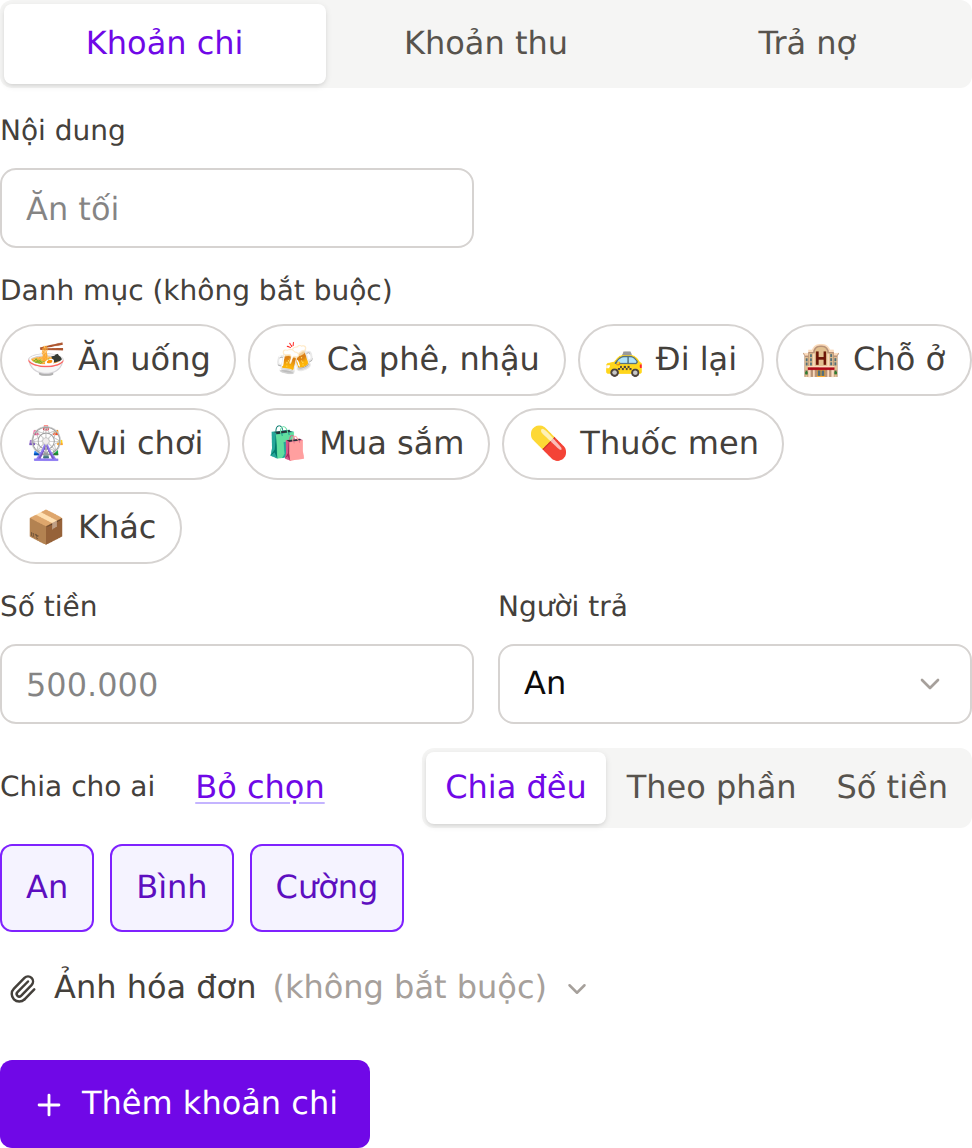
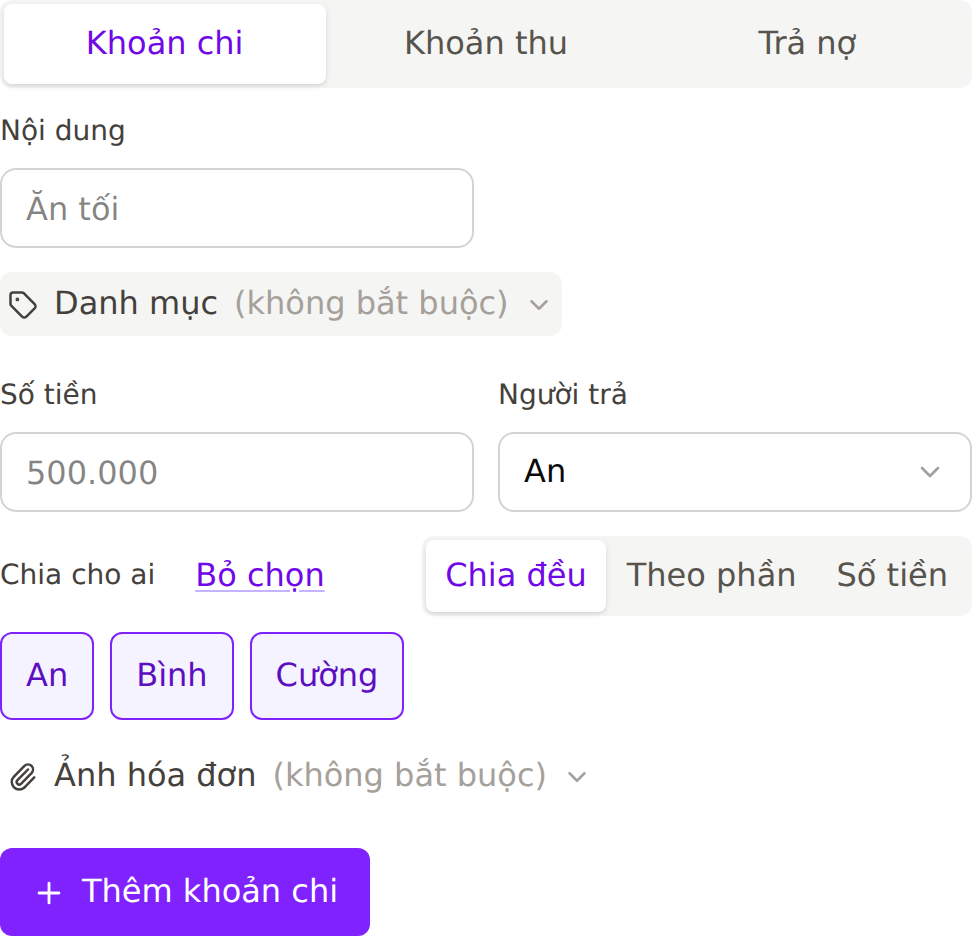
feat(ui): gap san muc chon danh muc trong form khoan chi
Danh muc la tuy chon nhung mo san day so tien va nguoi tra — hai o bat buoc —
xuong duoi man hinh. Dua ve dang gap/mo giong "Ảnh hóa đơn": header co icon
tag, chu "(không bắt buộc)" va badge danh muc dang chon, tu mo khi da chon
(hoac khi sua mot khoan co san danh muc) de con thay minh chon gi.

Claude-Session: https://claude.ai/code/session_01WXVSyJMV96qshRZcbARzF5

diff --git a/src/components/ExpensePanel.tsx b/src/components/ExpensePanel.tsx
@@ -10,6 +10,7 @@ import {
   Pencil,
   Plus,
   Sparkles,
+  Tag,
   Trash2,
   X,
 } from "lucide-react";
@@ -342,6 +343,7 @@ export function ExpensePanel({
   const toId = form.watch("toId");
   const splitMode = form.watch("splitMode");
   const category = form.watch("category");
+  const selectedCategoryMeta = categoryMeta(category);
   const splitValues = form.watch("splitValues");
   const amountValue = form.watch("amount");
 
@@ -438,6 +440,7 @@ function handleSplitModeChange(mode: SplitMode) {
   const aiReceipt = useAiScanReceipt(gameId);
   const [aiOpen, setAiOpen] = useState(false);
   const [photosOpen, setPhotosOpen] = useState(false);
+  const [categoryOpen, setCategoryOpen] = useState(false);
   const [aiText, setAiText] = useState("");
   const [aiError, setAiError] = useState("");
   const aiPending = aiSuggest.isPending || aiReceipt.isPending;
@@ -755,10 +758,35 @@ function handleSplitModeChange(mode: SplitMode) {
           />
         </Field>
         <div className={`md:col-span-2 ${kind !== "expense" ? "hidden" : ""}`}>
-          <p className="mb-1.5 text-sm font-medium text-stone-700 dark:text-stone-300">
-            Danh mục (không bắt buộc)
-          </p>
-          <div className="flex flex-wrap gap-1.5" role="group" aria-label="Danh mục chi tiêu">
+          {/* Gap san giong "Ảnh hóa đơn": danh muc la tuy chon, mo mac dinh thi
+              day cac o bat buoc (so tien, nguoi tra) xuong duoi man hinh. Da
+              chon roi thi luon mo de con thay minh chon gi. */}
+          <button
+            type="button"
+            onClick={() => setCategoryOpen((current) => !current)}
+            aria-expanded={categoryOpen || Boolean(category)}
+            className="mb-2 flex items-center gap-2 rounded-md px-1 py-1 text-sm font-medium text-stone-700 transition hover:bg-stone-100 dark:text-stone-300 dark:hover:bg-stone-800"
+          >
+            <Tag size={15} />
+            Danh mục
+            <span className="font-normal text-stone-400">(không bắt buộc)</span>
+            {selectedCategoryMeta && (
+              <span
+                className={`rounded px-1.5 py-0.5 text-[10px] font-semibold ${selectedCategoryMeta.badgeClassName}`}
+              >
+                {selectedCategoryMeta.emoji} {selectedCategoryMeta.label}
+              </span>
+            )}
+            <ChevronDown
+              size={15}
+              className={`text-stone-400 transition ${categoryOpen || category ? "rotate-180" : ""}`}
+            />
+          </button>
+          <div
+            className={`flex-wrap gap-1.5 ${categoryOpen || category ? "flex" : "hidden"}`}
+            role="group"
+            aria-label="Danh mục chi tiêu"
+          >
             {EXPENSE_CATEGORIES.map((option) => {
               const selected = category === option.id;
               return (
